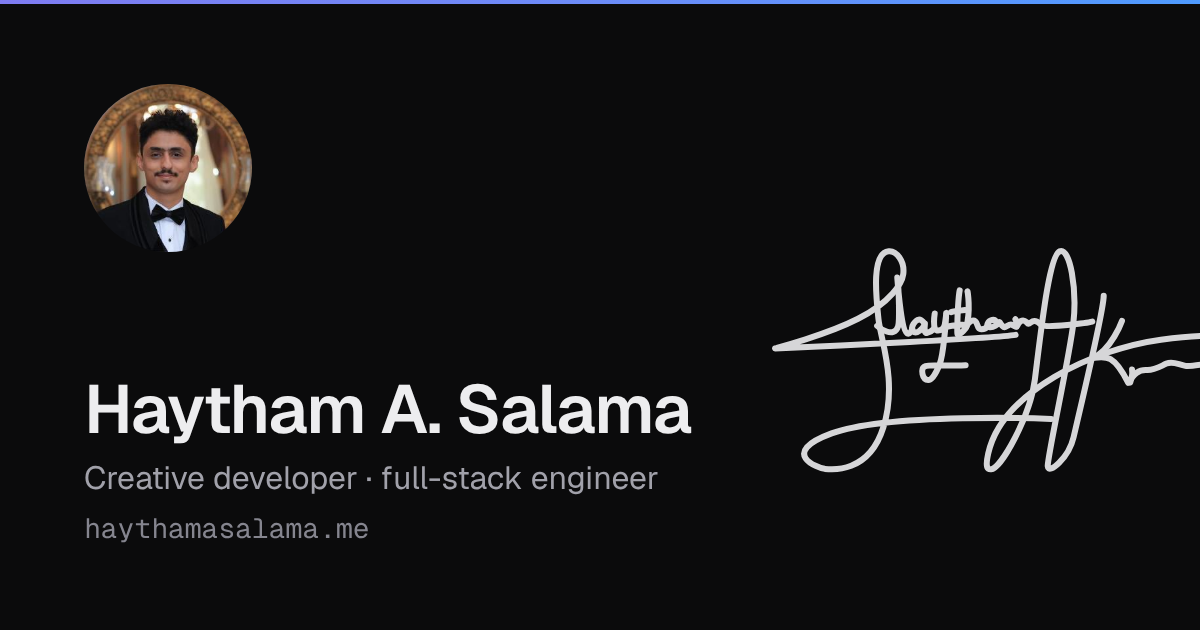
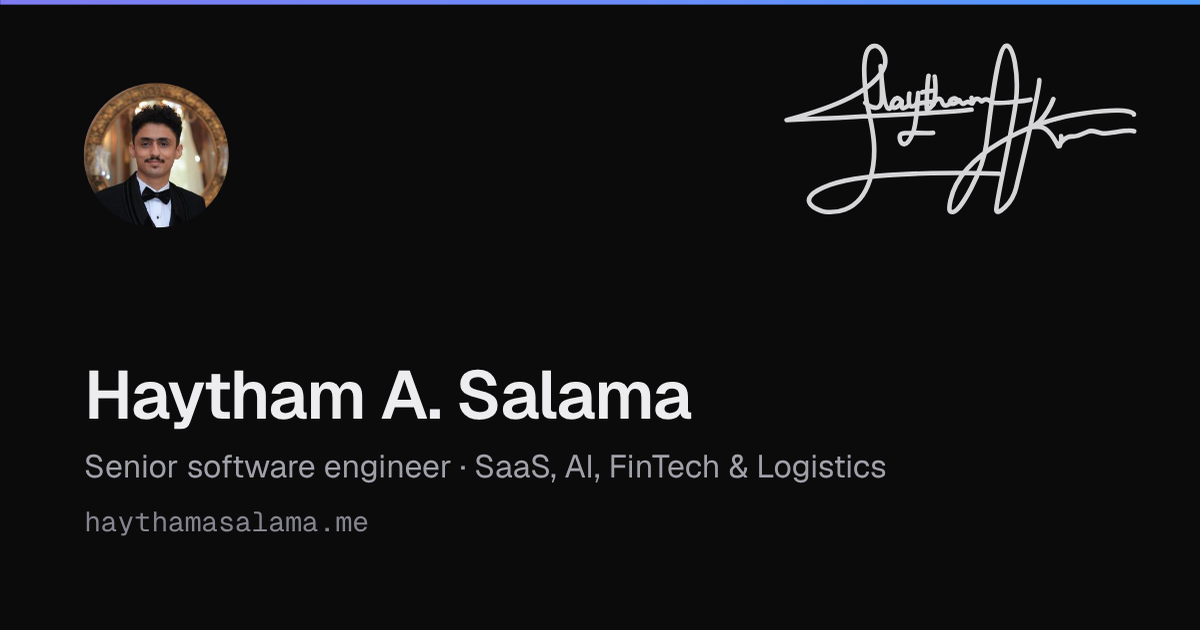
Fix the brand page's social card and thumbnail, and refresh og.png
- The social card's signature moves to the top right, beside the
  portrait, so the longer title line no longer runs under it.
- The YouTube thumbnail sizes everything as a share of its width, so the
  title, badge and byline read like a real thumbnail at any size.
- og.png is rendered from the card again: it said "Creative developer ·
  full-stack engineer" and now shows the current title.

diff --git a/app/components/brand/BrandThumbnail.vue b/app/components/brand/BrandThumbnail.vue
@@ -9,27 +9,27 @@
     >
       <span class="flex items-center justify-between">
         <span
-          class="inline-flex items-center gap-1.5 rounded-md border border-transparent px-[9px] py-[3px] font-mono text-[10.5px] tracking-[0.1em] [background:linear-gradient(#0B0B0C,#0B0B0C)_padding-box,linear-gradient(90deg,#7F7CF2,#4F9BFF)_border-box]"
+          class="inline-flex items-center gap-[1cqw] rounded-[1cqw] border border-transparent px-[1.6cqw] py-[0.5cqw] font-mono text-[length:max(10px,1.9cqw)] tracking-[0.1em] [background:linear-gradient(#0B0B0C,#0B0B0C)_padding-box,linear-gradient(90deg,#7F7CF2,#4F9BFF)_border-box]"
         >
-          <span class="size-1.5 rounded-full bg-linear-135 from-iris-500 to-azure-500" aria-hidden="true" />
+          <span class="size-[max(6px,1.1cqw)] rounded-full bg-linear-135 from-iris-500 to-azure-500" aria-hidden="true" />
           LIVE
         </span>
-        <span class="font-mono text-[10.5px] text-[#85858F]">EP. 01</span>
+        <span class="font-mono text-[length:max(10px,1.9cqw)] text-[#85858F]">EP. 01</span>
       </span>
-      <span class="text-[length:clamp(18px,8.6cqw,30px)] leading-[1.08] font-semibold tracking-[-0.03em]">
+      <span class="max-w-[80%] text-[length:max(18px,7.4cqw)] leading-[1.05] font-semibold tracking-[-0.03em]">
         How to Build a SaaS
       </span>
       <span class="flex items-center justify-between">
-        <span class="flex items-center gap-2">
+        <span class="flex items-center gap-[1.4cqw]">
           <img
             src="/images/haytham.jpg"
             alt=""
-            width="26"
-            height="26"
+            width="64"
+            height="64"
             loading="lazy"
-            class="block size-[26px] rounded-full object-cover"
+            class="block size-[max(24px,4.6cqw)] rounded-full object-cover"
           >
-          <span class="text-xs text-[#A1A1AA]">with Haytham</span>
+          <span class="text-[length:max(12px,2.2cqw)] text-[#A1A1AA]">with Haytham</span>
         </span>
         <img
           src="/brand-kit/haytham-signature-white-small.svg"
@@ -37,7 +37,7 @@
           width="64"
           height="33"
           loading="lazy"
-          class="block h-[33px] w-16"
+          class="block h-auto w-[max(64px,12cqw)]"
         >
       </span>
     </div>

diff --git a/app/components/brand/BrandSocialCard.vue b/app/components/brand/BrandSocialCard.vue
@@ -37,7 +37,7 @@
         width="156"
         height="79"
         loading="lazy"
-        class="absolute right-[-3%] bottom-[24%] block h-auto w-[39%] opacity-90"
+        class="absolute top-[6%] right-[5%] block h-auto w-[30%] opacity-90"
       >
     </div>
   </div>
